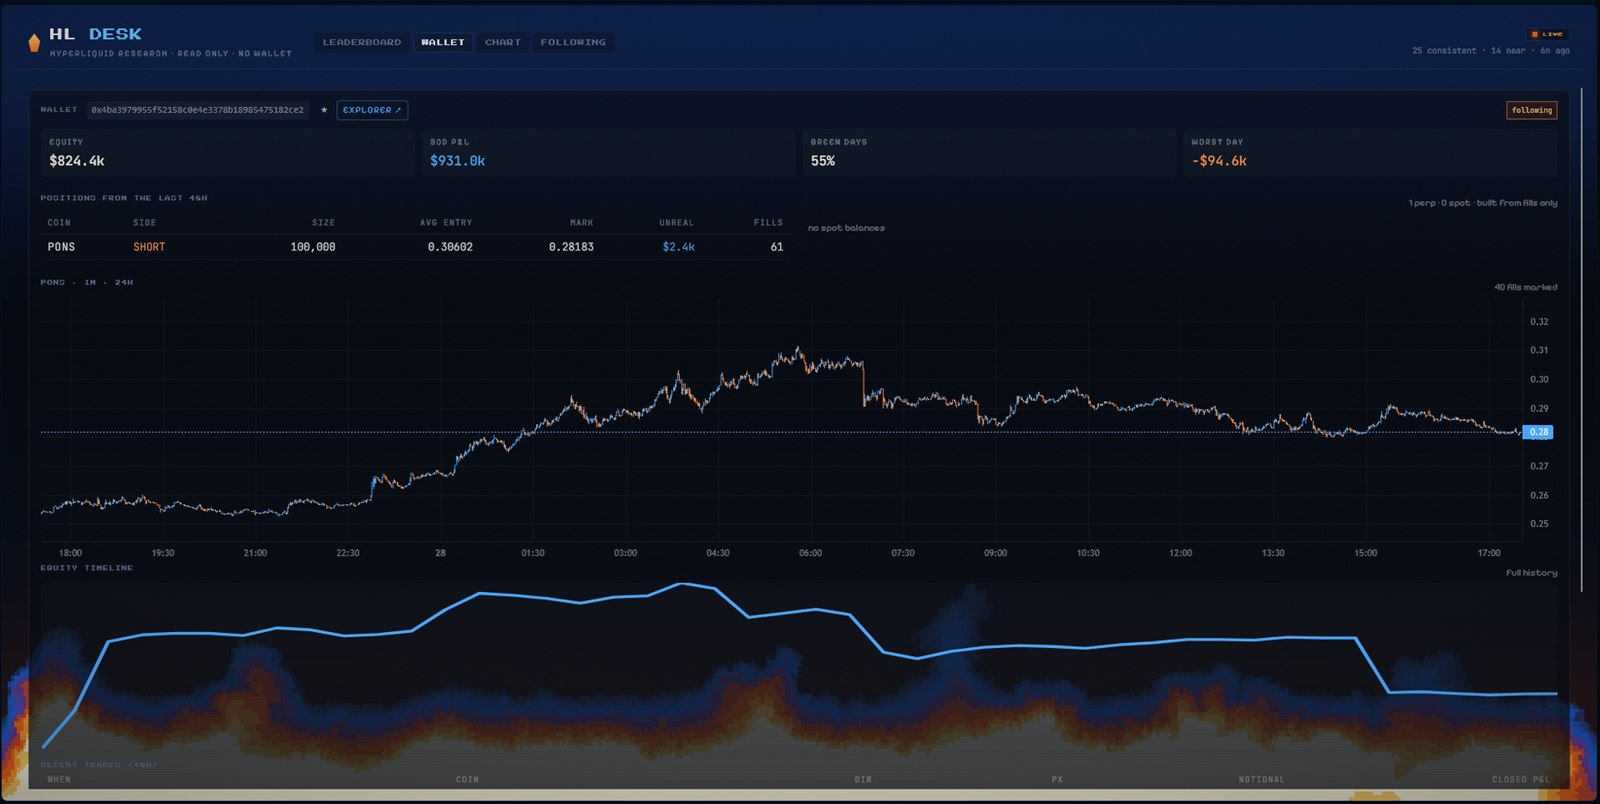
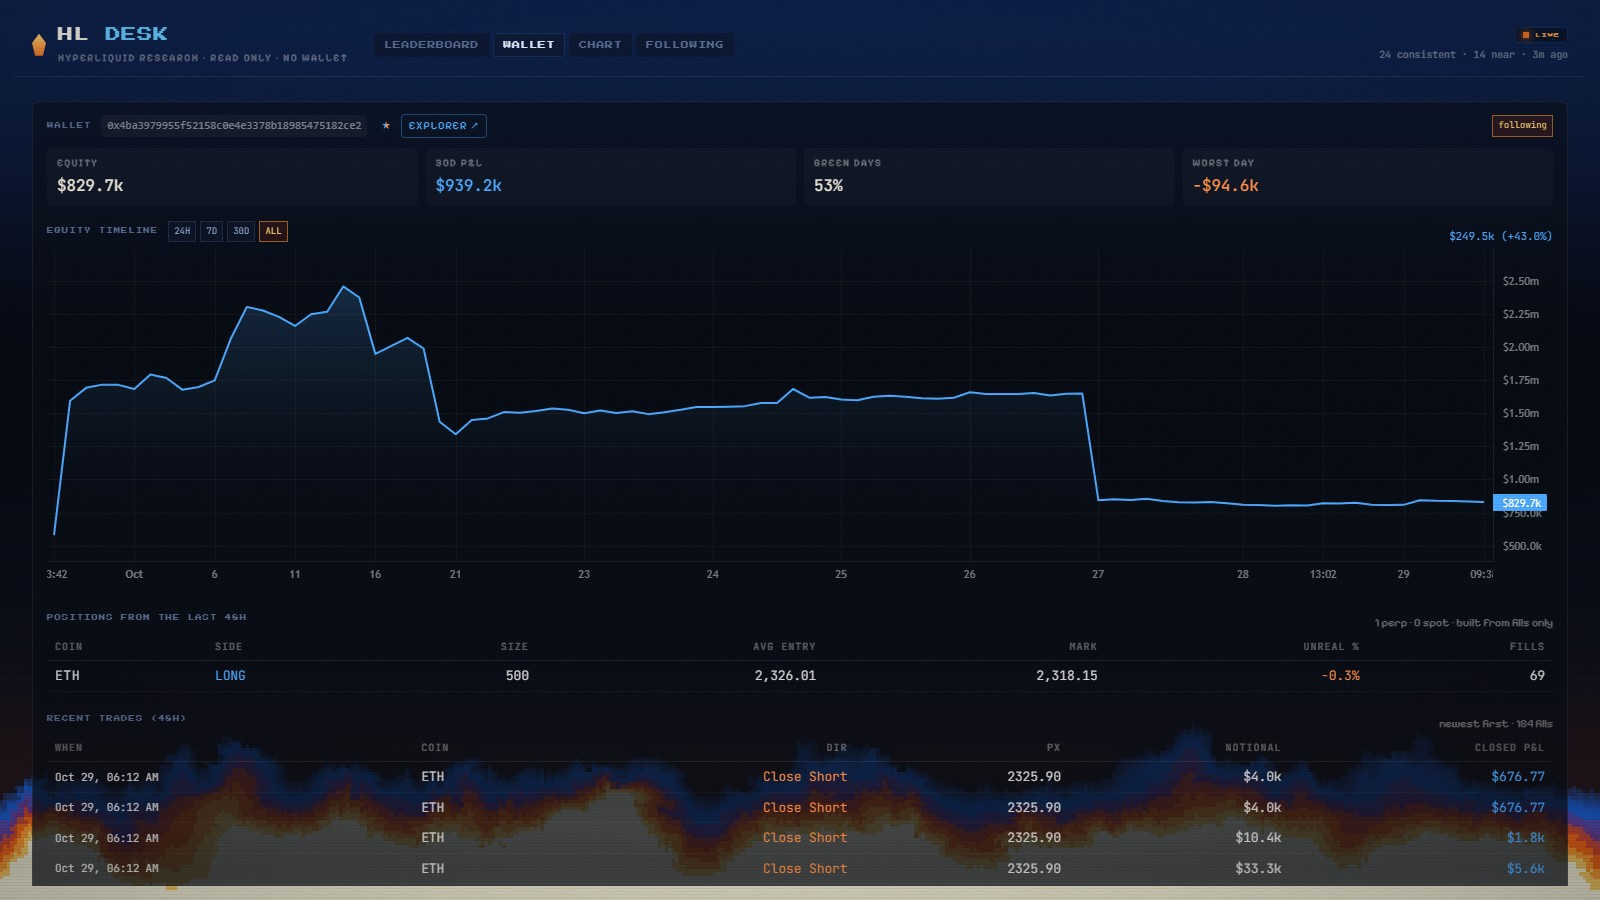
docs: wallet screenshot and README match the equity timeline

diff --git a/README.md b/README.md
@@ -6,7 +6,7 @@ alerts to a Discord webhook. No wallet, no keys, no orders. Nothing here trades.
 
 The public demo at <https://ferno.fun/hl/> is a frozen snapshot of the same UI.
 
-![Wallet view: positions rebuilt from the last 48h of fills, fills marked on the chart, equity timeline](docs/screenshot-wallet.jpg)
+![Wallet view: equity timeline with range chips, positions rebuilt from the last 48h of fills, paged trade list](docs/screenshot-wallet.jpg)
 
 ## What it does
 
@@ -16,10 +16,12 @@ more than 70% of profit, and a worst day better than -30% of equity. Wallets tha
 consistent; wallets that fail exactly one test are listed as near misses with the test they failed,
 so the board still shows the interesting ones. Equity floor is $10k.
 
-**Wallet page.** Equity curve, candles with the wallet's fills marked, the explorer link, and the
-position table. Positions are rebuilt from the last 48h of fills only, with average-cost accounting,
+**Wallet page.** Equity timeline with 24h/7d/30d/all ranges, the explorer link, the position table and
+the 48h trade list. The curve merges every portfolio window Hyperliquid returns (day, week, month,
+all time) so the last day is not a single point. Positions are rebuilt from the last 48h of fills only,
+with average-cost accounting,
 so "size 500 entered at 2,719" from a trade three weeks ago does not show up as a current position.
-The venue's own total is kept as a hover hint when it differs. Trades are paginated.
+The venue's own total is kept as a hover hint when it differs. Trades page 50 at a time.
 
 **Chart.** Alphabetical, searchable token picker; blue up / orange down candles; a measure tool you
 arm with a button and finish with two clicks; MACD 12/26/9 plus a zero-lag band aligned to the price
